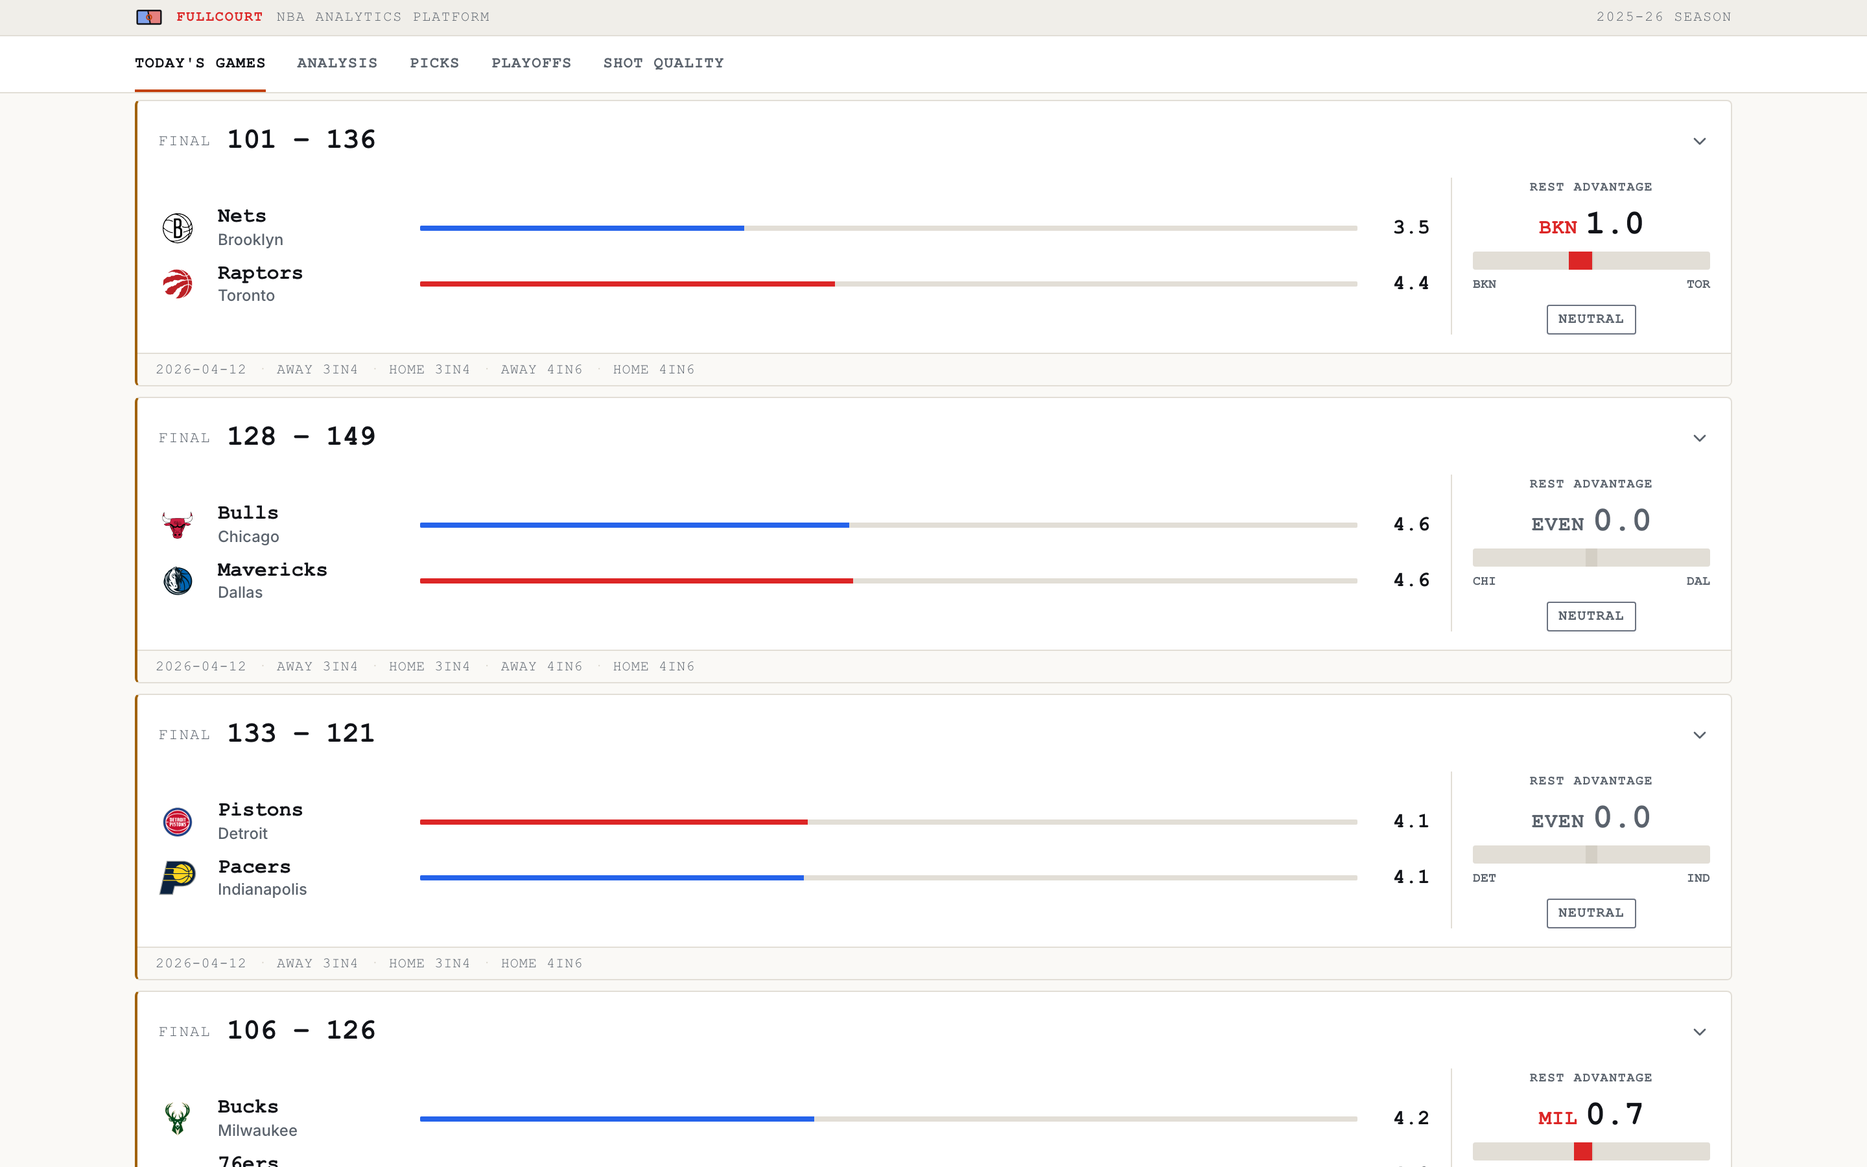
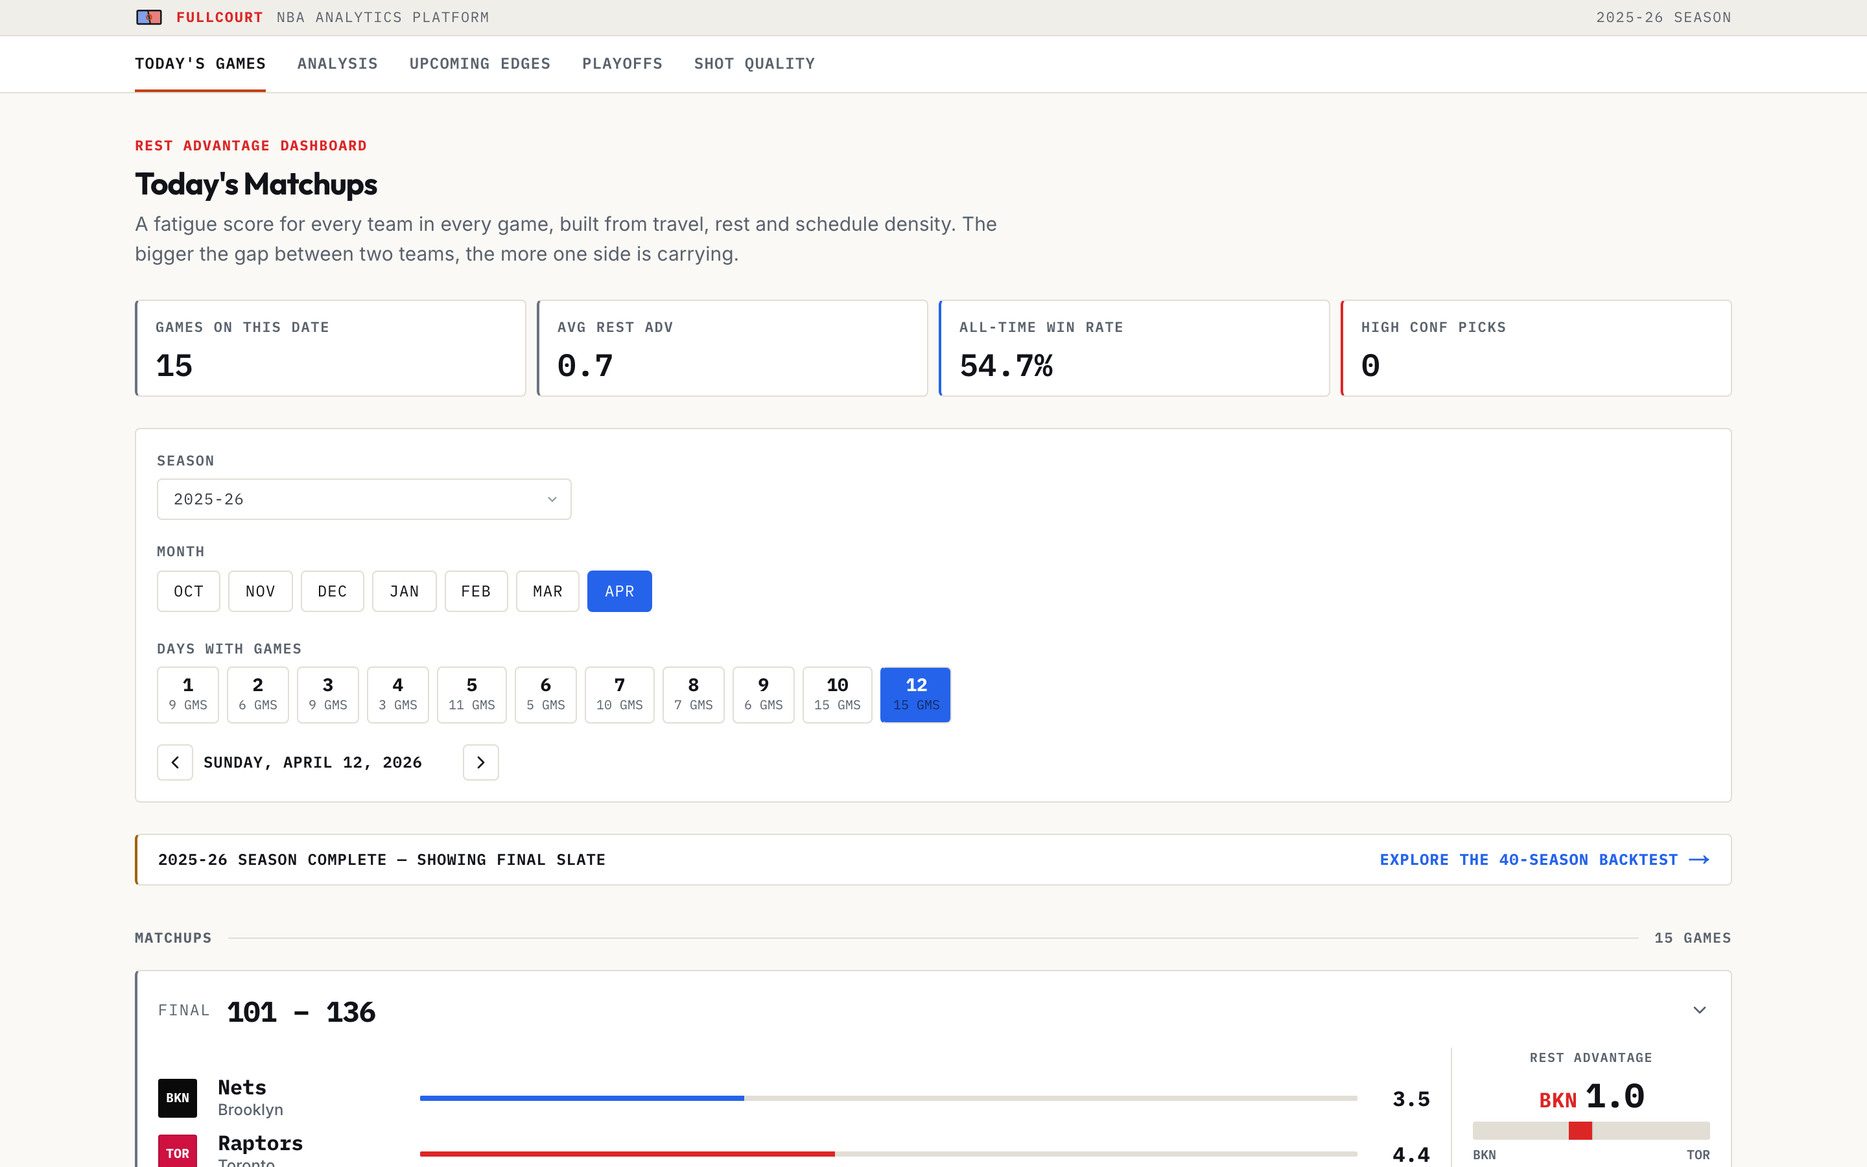
docs: bring the design system documentation and screenshots up to date
Reflects the interface changes in the preceding six commits, verified against the running
app rather than restated from the diff.

FRONTEND.md carried the most stale claims and gains new sections for the focus indicator,
the sentence-case-versus-caps rule and the zero-based chart treatment. The token table now
marks hardwood tan as non-data chrome, adds --term-blue-ghost, and records that the shadcn
--chart-* palette is scaffolding no chart reads: its violet separates from its blue by
delta-E 0.4 for deuteranopia, whereas --term-blue against --term-red passes every check at
delta-E 38.2, which is why the fatigue semantics stay on exactly those two.

Also updates the confidence tiers and their invariant test, the Upcoming Edges rename across
TESTING_AND_CICD.md, the font list in ARCHITECTURE.md, and the mono reference in
SHOT_QUALITY_DESIGN.md.

Screenshots are recaptured from a production build against the live database at the same
1440x900 at 2x as before. They show real figures: 38,985 games at 54.7% overall, 61.1% at
RA >= 5. The README alt text for the backtest chart now describes the split-bar encoding.

diff --git a/docs/FRONTEND.md b/docs/FRONTEND.md
@@ -5,9 +5,10 @@ the actual code (`src/app/`, `src/components/`, `src/app/globals.css`).
 
 ## App shell — `src/app/layout.tsx`
 
-- Fonts via `next/font/google`: **Inter** (`--font-inter`, weights 400/500/600 — body/sans)
-  and **Outfit** (`--font-outfit`, weights 600/700 — headings, exposed as the `font-heading`
-  utility). `<html>` gets both font variables + `antialiased`.
+- Fonts via `next/font/google`: **Inter** (`--font-inter`, weights 400/500/600 — body/sans),
+  **Outfit** (`--font-outfit`, weights 600/700 — headings, exposed as the `font-heading`
+  utility), and **IBM Plex Mono** (`--font-plex-mono`, weights 400/600/700 — all data, labels
+  and chart ticks). `<html>` gets all three font variables + `antialiased`.
 - Metadata: title default `"FullCourt — NBA Analytics"`, template `"%s · FullCourt"`, plus
   a description.
 - Layout: `<NavBar />` (sticky), `<main>` with a centered `max-w-7xl` container
@@ -37,11 +38,20 @@ State machine over season/month/day:
 - `useLiveGames(gameIds)` merges Realtime score/status updates into the rendered list;
   recently-updated cards flash (`scoreFlash`).
 - Pieces: heading eyebrow `REST ADVANTAGE DASHBOARD` + `<h1>Today's Matchups</h1>`;
-  `StatSummaryRow` (GAMES TODAY, AVG REST ADV, **SEASON WIN RATE** fetched live via
+  `StatSummaryRow` (GAMES ON THIS DATE, AVG REST ADV, **ALL-TIME WIN RATE** fetched live via
   `useSWR("/api/analysis")` — the same `overallWinRate` `/analysis` renders, shown as `—` while
-  loading/on error, HIGH CONF PICKS where `HIGH_CONF_THRESHOLD = 2.0`); season `<select>`;
-  month tabs (`NBA_REGULAR_MONTHS`); `DateChip`s ("DAYS WITH GAMES"); prev/next day arrows;
-  the `MatchupCard` list with skeleton/empty/error states.
+  loading/on error, HIGH CONF PICKS where `HIGH_CONF_THRESHOLD = 2.0`); the shared
+  `<SeasonSelector>`; month tabs (`NBA_REGULAR_MONTHS`); `DateChip`s ("DAYS WITH GAMES");
+  prev/next day arrows; the `MatchupCard` list with skeleton/empty/error states.
+- The first tile is **"GAMES ON THIS DATE"**, not "GAMES TODAY": its value is
+  `mergedGames.length` for the *selected* day, and `pickDefaultGamesDate` deliberately selects
+  a non-today date whenever today has no games (the normal case in the off-season).
+- The season control is the shared `<SeasonSelector>` (`season-selector.tsx`), which lists
+  **newest season first**. The hand-rolled `<select>` it replaced mapped `NBA_SEASONS` raw, so
+  it opened on 1985-86 and disagreed with every other season picker in the app.
+- Month tabs and `DateChip`s carry their active/inactive colors in **classes, not the `style`
+  prop**. An inline `background`/`border` shorthand outranks any class rule, which previously
+  made both controls' `hover:` states dead.
 
 ### `/analysis` — Analysis (`src/app/analysis/page.tsx`)
 
@@ -49,10 +59,13 @@ Server wrapper just renders `<AnalysisContentLazy />`. The lazy client component
 (`analysis-content.tsx`) owns the header — a terminal-style `HISTORICAL BACKTEST` eyebrow +
 `<h1>Rest Advantage Analysis</h1>` + descriptor — so the heading renders once.
 
-### `/upcoming` — Future Games (`src/app/upcoming/page.tsx`)
+### `/upcoming` — Upcoming Edges (`src/app/upcoming/page.tsx`)
 
-Server wrapper: header (`2025–26 Season` + `<h1>Future Games</h1>` + description) then
-`<UpcomingContentLazy />`.
+Server wrapper: header (`<season> SEASON` eyebrow + `<h1>Upcoming Edges</h1>` + description)
+then `<UpcomingContentLazy />`. The nav label, the `<h1>` and the metadata title are all
+**"Upcoming Edges"** — previously the nav said `PICKS` while the page and tab said "Future
+Games", three names for one destination, and "picks" promised betting tips that the guide copy
+explicitly disclaims.
 
 ### `/playoffs` — Playoff Predictor (`src/app/playoffs/page.tsx`)
 
@@ -89,10 +102,11 @@ recovery links to Today's Games and Analysis without adding a client bundle or d
 1. **Top status bar** (28px, `var(--term-surface-2)`, bottom border `var(--term-border)`):
    a `<CourtMark size={22}>` brand logo + `FULLCOURT` (`var(--term-red)`) + `NBA ANALYTICS
    PLATFORM` (muted), and on the right `currentDisplaySeason() + " SEASON"` (dynamic — from
-   `src/lib/nba-season.ts`, not a hardcoded label) plus an amber LIVE dot gated by
-   `HAS_LIVE_GAMES` (**hardcoded `false`**).
+   `src/lib/nba-season.ts`, not a hardcoded label). There is **no LIVE dot** — it was gated by
+   a `HAS_LIVE_GAMES` constant hardcoded to `false`, so it never rendered in any state; the
+   dead branch was removed. Per-game LIVE status is shown by `MatchupCard` instead.
 2. **Main nav** (44px, `var(--term-surface)`, bottom border `var(--term-border)`): links from
-   `PRIMARY_NAV_ITEMS` (`src/lib/primary-navigation.ts`) — `TODAY'S GAMES → /`, `ANALYSIS → /analysis`, `PICKS → /upcoming`,
+   `PRIMARY_NAV_ITEMS` (`src/lib/primary-navigation.ts`) — `TODAY'S GAMES → /`, `ANALYSIS → /analysis`, `UPCOMING EDGES → /upcoming`,
    `PLAYOFFS → /playoffs`, `SHOT QUALITY → /shot-quality`. The active link gets an amber
    bottom border (`border-[var(--term-amber)]`) + `text-[var(--term-text)]` and carries
    `aria-current="page"`; inactive links are muted with a hover-to-text transition.
@@ -113,10 +127,18 @@ focus trap, dismissal, and trigger-focus restoration.
 White card (`background: var(--term-surface)`, `1px solid var(--term-border)`) topped by a
 team-color band (away | home from `getTeamColors`) with a **2px left-border accent** colored
 by confidence:
-- `getConfidence(diff)`: `high` `|diff| ≥ 2.0`, `med` `≥ 1.0`, `neutral` otherwise, `none`
-  when no RA. `confidenceAccent` returns the `TERM_ACCENT` tokens (`src/lib/terminal-styles.ts`):
-  high `TERM_ACCENT.red`, med `TERM_ACCENT.blue`, neutral `TERM_ACCENT.tan`, none
-  `TERM_ACCENT.neutral`.
+- `getConfidence(diff)`: `high` `|diff| ≥ 2.0`, `med` `≥ 1.0`, **`low` `≥ 0.5`**, `neutral`
+  below that, `none` when no RA. The `low` tier exists because the canonical classifier
+  (`NEUTRAL_REST_ADVANTAGE_THRESHOLD = 0.5`, imported from `rest-advantage-evidence.ts` rather
+  than redeclared) calls a game for a team at 0.5: with tiers starting at 1.0, every gap in
+  `[0.5, 1.0)` made `RestAdvPanel` print e.g. `BOS 0.7` while the badge directly beneath it
+  printed `NEUTRAL`. The invariant — *anything the classifier calls is at least `low`* — is
+  pinned by `src/components/__tests__/matchup-card-confidence.test.ts`.
+- `confidenceAccent` returns `TERM_ACCENT` tokens (`src/lib/terminal-styles.ts`): high
+  `.red`, med `.blue`, everything else `.neutral`. **Not `.tan`** — against `--term-red` it
+  measures ΔE 3.2 for deuteranopia (floor 8) and 14.5 for normal vision (floor 15), so a
+  HIGH CONF and a NEUTRAL card were indistinguishable at a 2px border. Confidence is
+  magnitude, and is carried by the badge text rather than a third hue.
 
 Layout per card: status line (`GameStatusRow` → LIVE/FINAL/UPCOMING + score),
 `away TeamBlock | FatigueBarsBlock | home TeamBlock | RestAdvPanel`, a `MetaStrip`, and a
@@ -128,7 +150,7 @@ click/keyboard-expandable detail grid (two `FatigueDetailColumn`s). Subcomponent
 - `RestAdvPanel` (~180–200px, left divider): `REST ADVANTAGE` label, team abbreviation +
   value (or `EVEN`), a center-anchored fill bar (home fills right in blue, away fills left in
   red; fill width = `min(|diff|/5, 1) * 50%`), and a `ConfidenceBadge` (HIGH CONF red /
-  MED CONF blue / NEUTRAL outlined).
+  MED CONF blue / LOW CONF and NEUTRAL outlined).
 - `MetaStrip` — game date plus flag chips: `AWAY/HOME B2B`, `AWAY/HOME 3IN4`, `AWAY/HOME
   4IN6`, `ALT`, `COAST`, `OT`.
 - `FatigueDetailColumn` — GP (30D/7D), back-to-back, 3-in-4, 4-in-6, road streak, travel
@@ -248,7 +270,8 @@ hard-code hexes.
 | `--term-text-dim #363B42` | secondary text (darker than muted) |
 | `--term-red #DC2626` | high confidence · danger · "higher fatigue" |
 | `--term-blue #2563EB` | primary · med confidence · "lower fatigue" · charts · active data |
-| `--term-hardwood #A16207` | neutral accent |
+| `--term-blue-ghost #C3D4FA` | the coin-flip portion of a win-rate bar (see Charts below) |
+| `--term-hardwood #A16207` | **non-data chrome only** — off-season banners, amber CTA hover |
 | `--term-amber #C2410C` | **live** dot + active nav underline (broadcast accent) |
 | `--term-pos #15803D` / `--term-neg #DC2626` | win / loss, up / down |
 | `--term-neutral #6B7280` | neutral semantic / badge outlines |
@@ -264,21 +287,76 @@ hard-code hexes.
 > `#C4CED4`) would render white-on-white. shadcn semantic tokens in `:root` are set to matching
 > light values (`--background #FAF9F6`, `--foreground #111318`, `--card #FFFFFF`,
 > `--primary #2563EB`, `--destructive #DC2626`, `--accent #A16207`); chart palette
-> `--chart-1..5` = blue / red / hardwood / emerald / violet.
+> `--chart-1..5` = blue / red / hardwood / emerald / violet. **The `--chart-*` palette is
+> shadcn scaffolding that no chart in this app reads** — recharts pulls `--term-*` directly.
+> Do not adopt it without re-measuring: `--chart-5` violet against `--chart-1` blue separates
+> by ΔE 0.4 for deuteranopia. `--term-blue` ↔ `--term-red` is the only pair in the codebase
+> that passes every separation check (ΔE 38.2 normal vision, 29.9 protanopia), which is why
+> the fatigue / rest-advantage semantics stay on exactly those two and nothing is added
+> alongside them.
 
 ### Typography
 
 - **Body / sans:** Inter (`--font-inter`).
 - **Headings (`h1–h3`):** Outfit (`--font-heading` / `font-heading` utility), bold + tight
   tracking.
-- **Data / labels:** the `.mono` class = `'Courier New', Courier, monospace`; numeric values
-  use `tabular-nums`. The Tailwind `--font-mono` token is a `ui-monospace` system stack.
+- **Data / labels:** the `.mono` class = `var(--font-plex-mono)` (**IBM Plex Mono**, loaded by
+  `next/font/google` in `layout.tsx`) with a `ui-monospace` fallback, and
+  `font-variant-numeric: tabular-nums` applied on the class itself. TS/TSX style objects that
+  need the same stack import `MONO_FONT_STACK` from `src/lib/terminal-styles.ts` rather than
+  re-declaring it — this includes every recharts `tick.fontFamily`.
+- This replaced `'Courier New'`, which set roughly 80% of the visible text: a metrically loose
+  typewriter face with weak tabular figures, and the largest single source of visual
+  cheapness in a dense numeric UI. `next/font` ships with Next.js, so the swap added **no npm
+  dependency**.
+
+### Sentence case vs. caps
+
+Uppercase mono is for **labels of about three words or fewer** — stat-card captions, table
+headers, section dividers, badges. Anything that is a *sentence* is set in Inter, sentence
+case, at 15px: `PageHeader` descriptions, the `/analysis` and `/` intro paragraphs, the
+playoffs OOS-vs-in-sample explainer, and the shot-quality `MethodologyNote`. All-caps removes
+word-shape cues and measurably slows reading past a few words.
+
+### Focus
+
+One app-wide indicator, defined once in `globals.css`:
+
+```css
+:focus-visible { outline: 2px solid var(--term-blue); outline-offset: 2px; }
+```
+
+`--ring` is a **solid** `#2563EB`. It was `rgba(37, 99, 235, 0.45)` and further halved by an
+`outline-ring/50` applied to `*`, which composited to 1.97:1 on white — under the 3:1 non-text
+minimum. Components may **reinforce** focus with a ring or a background tint but must not
+replace it: `focus-visible:outline-none` was removed from `matchup-card`, `playoffs-content`,
+`analysis-content` (explorer rows), `explore-game-detail-modal` and `shot-quality-content`
+(the methodology `<summary>`, which had focus removed with no replacement at all). The
+onboarding dialog keeps its explicit amber rings, which are a real visible indicator.
+
+### Charts (`analysis-content.tsx`)
+
+Both backtest bar charts are **zero-based** — `domain={[0, yMax]}`, where `yMax` comes from
+`chartMaxPct()` (the greater of 70 and the data's peak rounded up to a decade, so no bar can
+be clipped). They previously clipped to `[45, 75]` and `[40, 70]`, which renders a 4.8-point
+edge as a landslide.
+
+Legibility is recovered without the dishonest axis by splitting each bar at the baseline:
+`splitAtBaseline(winPct)` yields `base = min(winPct, 50)` and `edge = max(0, winPct - 50)`,
+stacked under one `stackId`. The `base` segment is `--term-blue-ghost` ("what a coin flip
+already gives you") and the `edge` segment is solid `--term-blue` ("the edge the model
+finds") — so the measured edge is the part with length. `BASELINE_PCT = 50` is drawn as a
+solid 2px `--term-text` `ReferenceLine` **declared after the bars** so it renders on top, and
+a `BaselineLegend` names all three marks. Tooltips read the win rate off the datum, not off
+`payload` — with two stacked series, iterating `payload` would print the split halves — and
+each adds a `±N.N PP VS COIN FLIP` line.
 
 ### Card / accent patterns
 
 - Broadcast cards: `var(--term-surface)` fill, `1px solid var(--term-border)`,
   `var(--term-radius)`. Many add a **2px left-border accent** via `TERM_ACCENT`
-  (`.tan` default, `.red` for errors/high-confidence, `.blue` for highlights).
+  (`.neutral` default, `.red` for errors/high-confidence, `.blue` for highlights).
+  `TERM_ACCENT.tan` is **not** used in any data role — see the token table above.
 - Uppercase mono labels with wide letter-spacing (`0.04–0.12em`) for "technical" headers.
 - Animations (`globals.css`): `fadeInUp` (card entrance, staggered by `index * 40ms`),
   `scoreFlash` (live-update glow).

diff --git a/docs/TESTING_AND_CICD.md b/docs/TESTING_AND_CICD.md
@@ -19,7 +19,8 @@ python3 -m unittest discover -s scripts/tests -p 'test_*.py' -v
 Config (`vitest.config.ts`): `environment: "node"`, `include: ["src/**/*.test.ts"]`,
 `passWithNoTests: false`, alias `@ → ./src`. `@vitejs/plugin-react` and Testing Library
 (`@testing-library/react`, `@testing-library/jest-dom`) are installed; current tests are
-pure unit/route tests (no component rendering yet).
+pure unit/route tests (no component rendering yet) — the one test that imports a component
+imports only an exported pure function from it, never renders it.
 
 Test files and coverage:
 
@@ -39,6 +40,7 @@ Test files and coverage:
 | `src/app/api/__tests__/games.test.ts` | `GET /api/games/[date]` valid/invalid dates, empty results, `GameResponse` shape. Mocks `@/lib/db/queries`. |
 | `src/app/api/__tests__/games-search.test.ts` | `GET /api/games/search` defaults, validation, and query delegation. |
 | `src/app/api/__tests__/games-upcoming.test.ts` | `GET /api/games/upcoming` season/threshold validation and query delegation. |
+| `src/components/__tests__/matchup-card-confidence.test.ts` | **Invariant:** anything `classifyRestAdvantage` calls for a team is never labelled `NEUTRAL` by `getConfidence`. Sweeps −3.0…3.0 in 0.1 steps and asserts the contradiction set is empty, plus the tier boundaries (0.5 `low` / 1.0 `med` / 2.0 `high`). Discriminating: with the pre-fix tiers it fails listing exactly `[-0.9…-0.5, 0.5…0.9]`. |
 
 API route tests `vi.mock("@/lib/db/queries")`, so they exercise validation + response
 shaping without a real database. These should pass against the current code.
@@ -60,12 +62,13 @@ an empty browser. Specs: `e2e/home.spec.ts`, `e2e/analysis.spec.ts`, `e2e/naviga
 
 > **The e2e specs target the current terminal UI** (they are **not** stale — they assert the live
 > markup, including the `Today's Matchups` / `Rest Advantage Analysis` headings and the
-> `TODAY'S GAMES`/`ANALYSIS`/`PICKS` nav; none reference a removed `/tracker` route). They still
+> `TODAY'S GAMES`/`ANALYSIS`/`UPCOMING EDGES` nav; none reference a removed `/tracker` route).
+> They still
 > need a running server **and** a populated database to pass — the suite drives real
 > `/api/games/*` and `/api/analysis` responses, so it is not a build-time check, and it runs only
 > on demand (`pnpm test:e2e`), never in CI.
 >
-> - **`navigation.spec.ts`** — nav links `TODAY'S GAMES` / `ANALYSIS` / `PICKS` →
+> - **`navigation.spec.ts`** — nav links `TODAY'S GAMES` / `ANALYSIS` / `UPCOMING EDGES` →
 >   `/` / `/analysis` / `/upcoming`. The active link is asserted via its `aria-current="page"`
 >   attribute (the amber-underline active state), and inactive links are checked to lack it.
 > - **`home.spec.ts`** — the heading is the `<h1>` **"Today's Matchups"** (`REST ADVANTAGE

diff --git a/docs/ARCHITECTURE.md b/docs/ARCHITECTURE.md
@@ -114,7 +114,8 @@ prerender and Edge (postgres-js needs Node). Full list in [API.md](API.md).
 
 ### 6. Frontend (Next.js App Router + React 19)
 
-- `app/layout.tsx` — Inter (body) + Outfit (headings) fonts, `<NavBar>`, footer, metadata.
+- `app/layout.tsx` — Inter (body) + Outfit (headings) + IBM Plex Mono (data/labels) fonts,
+  `<NavBar>`, footer, metadata.
 - `app/page.tsx` — **Today's Games** (client): season/month/day pickers → `/api/games/dates`
   then `/api/games/[date]`, with live merges from `useLiveGames`.
 - `app/analysis/page.tsx` / `app/upcoming/page.tsx` / `app/playoffs/page.tsx` /
@@ -163,7 +164,7 @@ the row change → connected clients update in place.
 - **Regular-season calendar guard** (`gameDateWithinRegularSeasonCalendar` in `queries.ts`)
   re-filters by Oct 1–Apr 30 even though ingest already excludes non-`002` IDs, defending
   against mis-tagged source rows.
-- **Design system unified (2026-06-29):** Today's Games, Analysis, Future Games
+- **Design system unified (2026-06-29):** Today's Games, Analysis, Upcoming Edges
   (`upcoming-content.tsx`) and the game-detail modal (`explore-game-detail-modal.tsx`) all use
   one flat design system; the earlier glassmorphism look has been fully migrated out. (This
   "Bloomberg Terminal" light style was later superseded by the dark "Broadcast" redesign, and

diff --git a/README.md b/README.md
@@ -30,9 +30,10 @@ FullCourt quantifies how **travel, rest, and schedule density** shape NBA outcom
 ## Demo
 
 **Analysis — the 40-season backtest behind the headline finding.** Win rate by rest-advantage
-threshold, plotted against a coin-flip baseline so the size of the edge stays honest.
+threshold on a zero-based axis, with each bar split at the 50% coin-flip line: the pale
+segment is what chance already accounts for, the solid segment is the measured edge.
 
-<img src="docs/screenshots/analysis.png" alt="Rest Advantage Analysis: win rate by rest-advantage threshold across 38,985 regular-season games, each bar labelled with its sample size and compared against a 50% coin-flip reference line" width="900" />
+<img src="docs/screenshots/analysis.png" alt="Rest Advantage Analysis: win rate by rest-advantage threshold across 38,985 regular-season games on a zero-based axis. Each bar is split at a solid 50% coin-flip baseline, with a pale lower segment for the coin-flip portion and a solid blue upper segment for the measured edge, and is labelled with its sample size" width="900" />
 
 **Today's Games — the per-matchup view.** Each team's fatigue score, the rest-advantage
 differential, and a confidence read, with team colors carrying each card.

diff --git a/docs/SHOT_QUALITY_DESIGN.md b/docs/SHOT_QUALITY_DESIGN.md
@@ -294,7 +294,7 @@ the same `{ data, error }` envelope + Zod validation + `getPublicApiErrorMessage
 - **Frontend:** a new **`/shot-quality`** page (working route name; tracks the §1 name decision),
   added to `nav-bar.tsx` — the **only** surface that reads shot data (isolation, §7). The core
   visual is a **half-court hexbin / shot chart**. As shipped it uses the light **"Broadcast"**
-  aesthetic (mono Courier, `--term-*` tokens, white court `#FFFFFF`; value ramp tan `#A16207` →
+  aesthetic (IBM Plex Mono, `--term-*` tokens, white court `#FFFFFF`; value ramp tan `#A16207` →
   blue `#2563EB`, and a blue→neutral→red `#DC2626` divergent ramp with a near-white `#E5E7EB`
   neutral for the GBM−baseline view), with color/size encoding expected eFG% vs attempts.
   *(Palette lineage: originally specced light ("Bloomberg Terminal"), rebuilt dark in the
